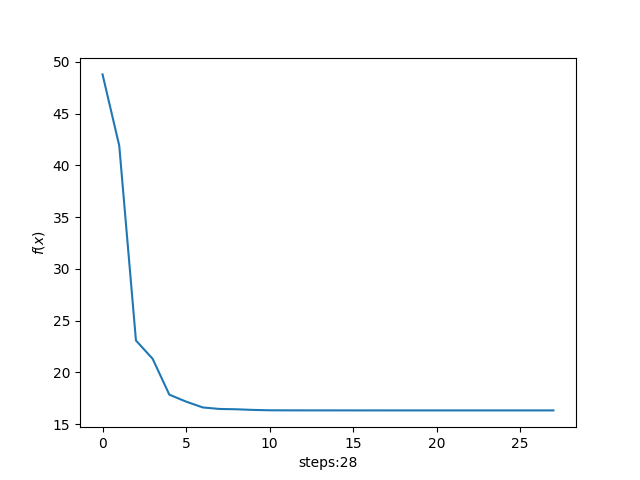
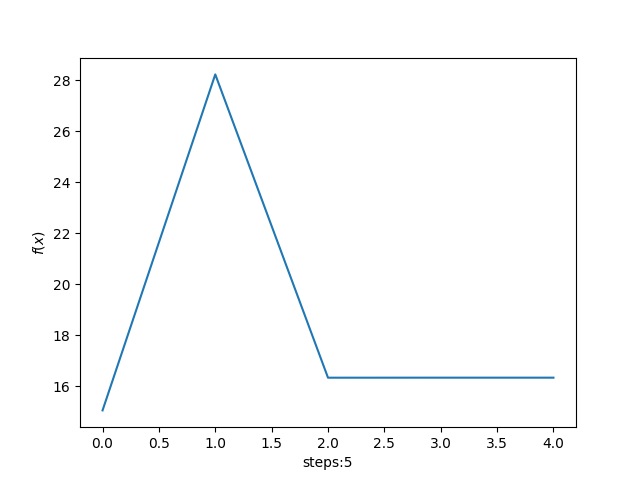
closed-form-for-y

diff --git a/HW18/admm.py b/HW18/admm.py
@@ -1,6 +1,6 @@
 import numpy as np
 import matplotlib.pyplot as plt
-from scipy import optimize
+import time
 
 
 class ADMM:
@@ -31,8 +31,18 @@ class ADMM:
         self.x = self.a + (dist-self.beta)*d/dist
 
     def step_y(self):
-        result = optimize.minimize(self.L_y, self.y, options={"maxiter": 5})
-        self.y = result.x
+        b = self.x+self.lam/self.beta
+        y_hat = np.zeros_like(self.y)
+        a = self.b
+        coe = b-a
+        for i in range(100):
+            if coe[i] < -1/self.beta:
+                y_hat[i] = coe[i]+1/self.beta
+            elif coe[i] > 1/self.beta:
+                y_hat[i] = coe[i]-1/self.beta
+            else:
+                y_hat[i] = 0
+        self.y = y_hat+a
 
     def step_lam(self):
         self.lam += self.tau*self.beta*(self.x-self.y)
